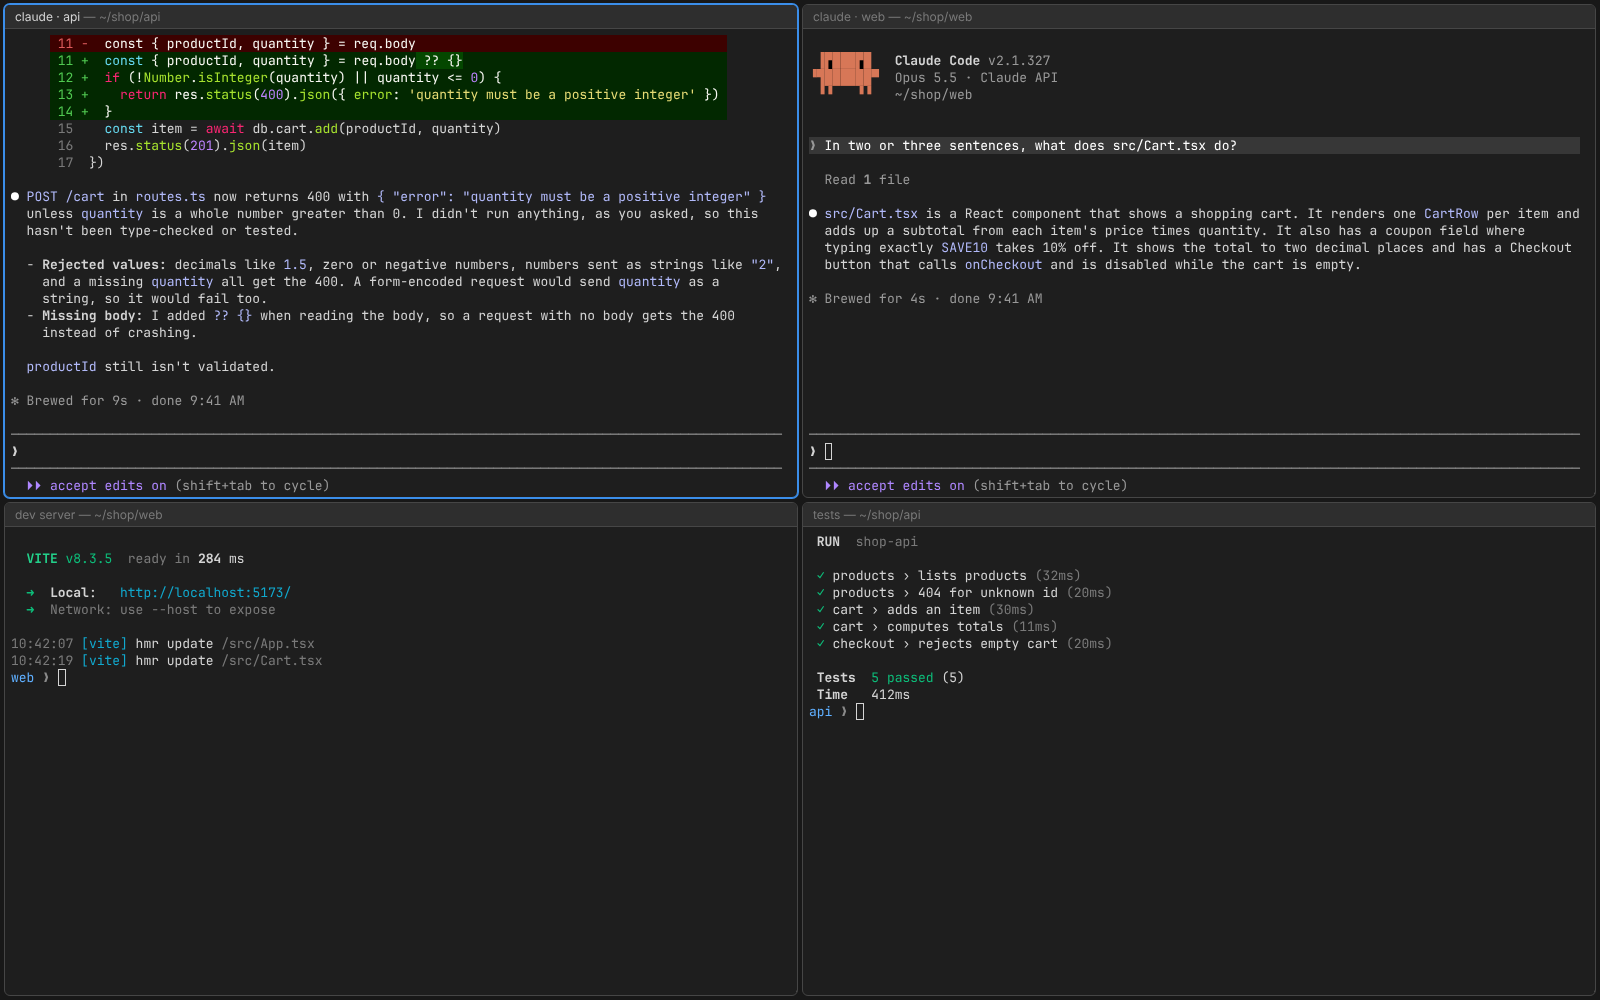
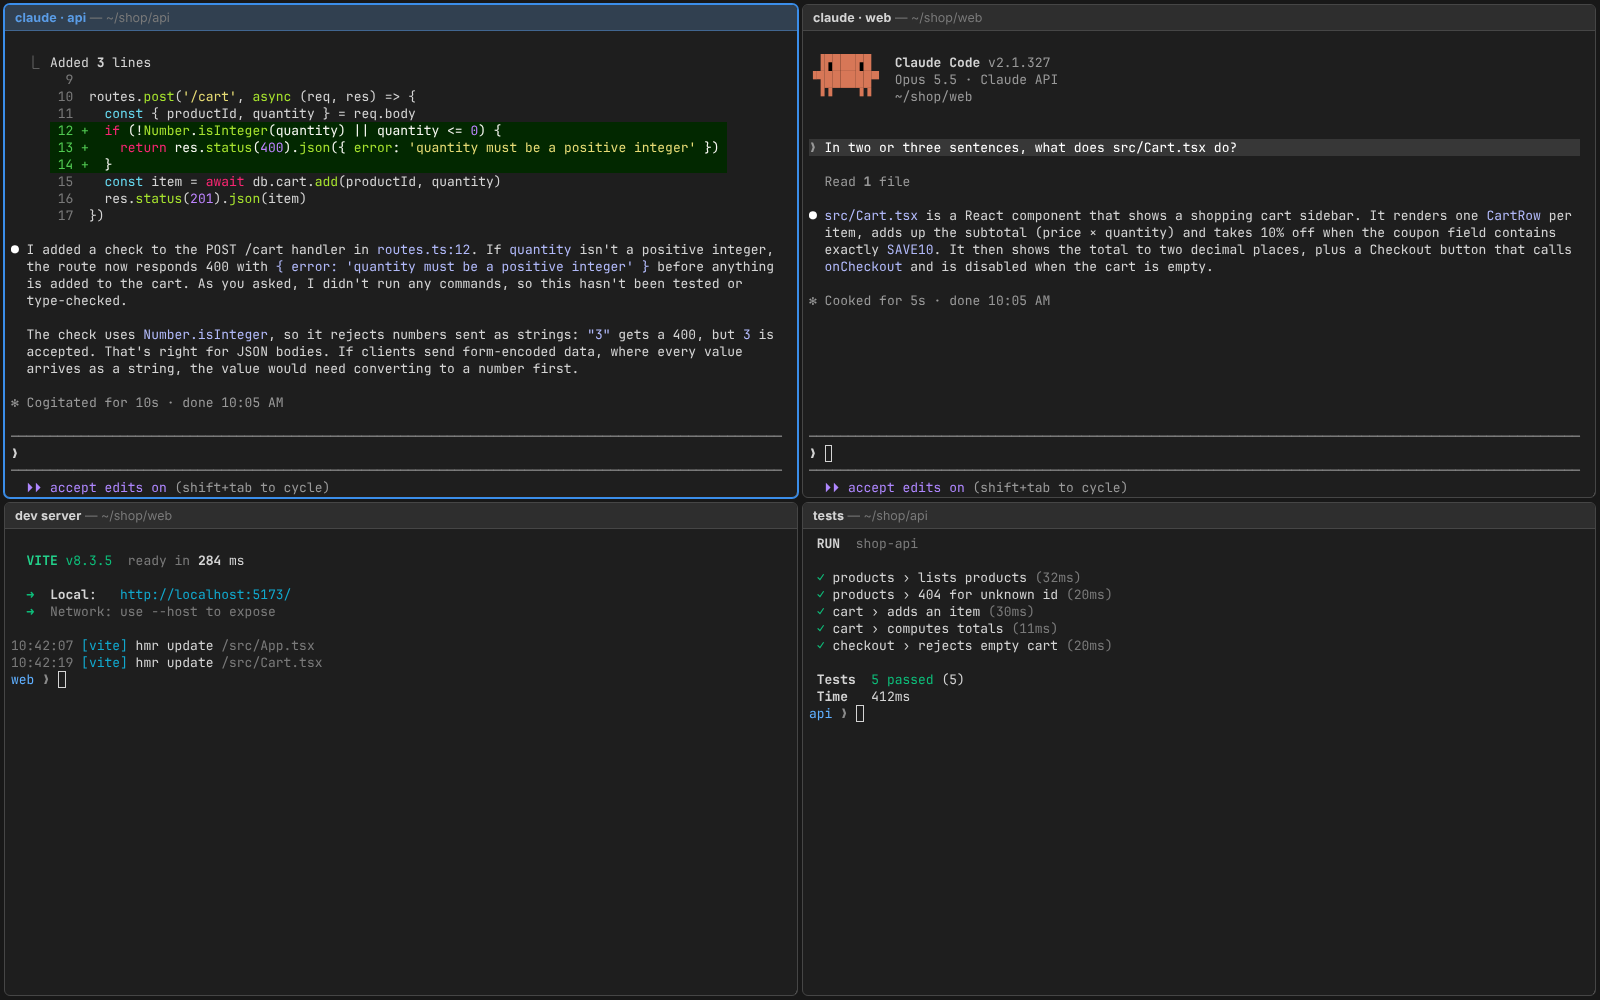
Make session titles bolder and more distinct
- Session names are bold and full-brightness in every tile
- The active session's name uses the theme accent colour, on an
  accent-tinted title bar; the folder path stays dim
- README screenshots regenerated; screenshot script cleanup no longer
  fails if Claude Code is still writing its files

Claude-Session: https://claude.ai/code/session_019L9dVCkV36iLAKmNuAUy8H

diff --git a/src/renderer/src/styles.css b/src/renderer/src/styles.css
@@ -84,9 +84,9 @@ body.resizing-row, body.resizing-row * { cursor: row-resize !important; user-sel
   display: flex;
   align-items: center;
   gap: 6px;
-  padding: 4px 10px;
-  font-size: 12px;
-  color: var(--muted);
+  padding: 5px 10px;
+  font-size: 12.5px;
+  color: var(--dim);
   background: var(--chrome);
   border-bottom: 1px solid var(--border);
   user-select: none;
@@ -95,8 +95,12 @@ body.resizing-row, body.resizing-row * { cursor: row-resize !important; user-sel
   cursor: default;
 }
 .title-text { overflow: hidden; text-overflow: ellipsis; }
-.tile.active .title { color: var(--term-fg); }
-.title .cwd { color: var(--muted); }
+/* The session name stands out: bold and full-brightness everywhere, and in
+   the accent colour (on an accent-tinted bar) for the active session. */
+.title .session-name { font-weight: 700; color: var(--term-fg); letter-spacing: 0.01em; }
+.tile.active .title { background: color-mix(in srgb, var(--accent) 18%, var(--chrome)); border-bottom-color: color-mix(in srgb, var(--accent) 45%, var(--border)); }
+.tile.active .title .session-name { color: color-mix(in srgb, var(--accent) 80%, var(--term-fg)); }
+.title .cwd { color: var(--muted); font-weight: 400; }
 .bell-dot { flex: none; width: 7px; height: 7px; border-radius: 50%; background: var(--accent); }
 
 .tile.bell-flash .term { animation: bell 260ms ease-out; }

diff --git a/src/renderer/src/SessionTile.tsx b/src/renderer/src/SessionTile.tsx
@@ -204,7 +204,7 @@ export function SessionTile(props: Props) {
           <>
             {bellPending && <span className="bell-dot" title="Bell" data-testid="bell-dot" />}
             <span className="title-text">
-              {name}
+              <span className="session-name">{name}</span>
               {cwd && <span className="cwd"> — {cwd}</span>}
             </span>
           </>
